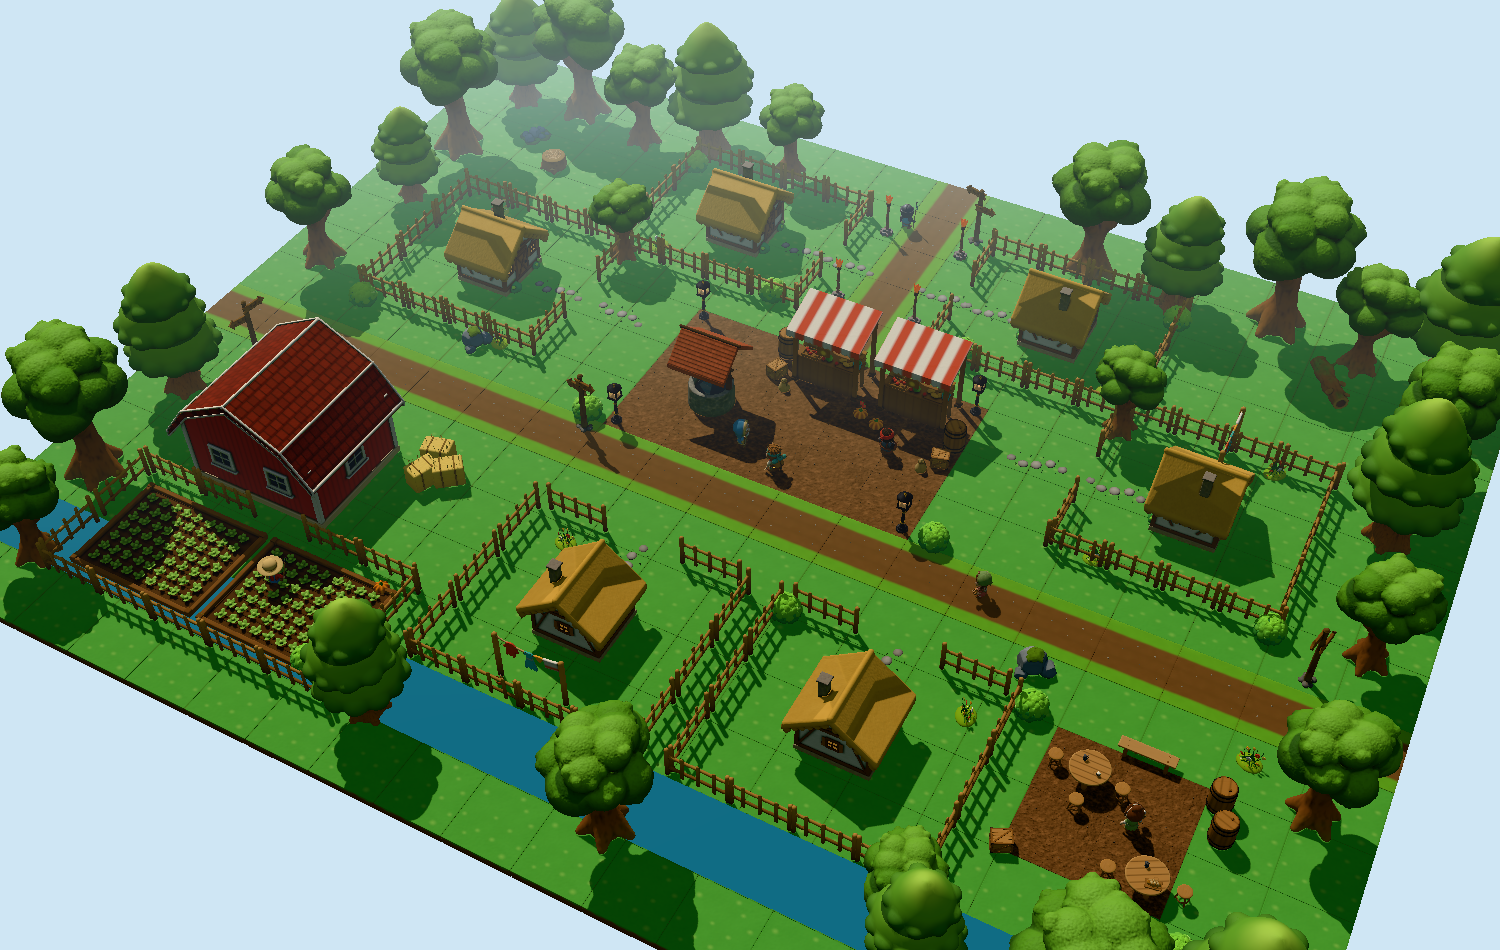
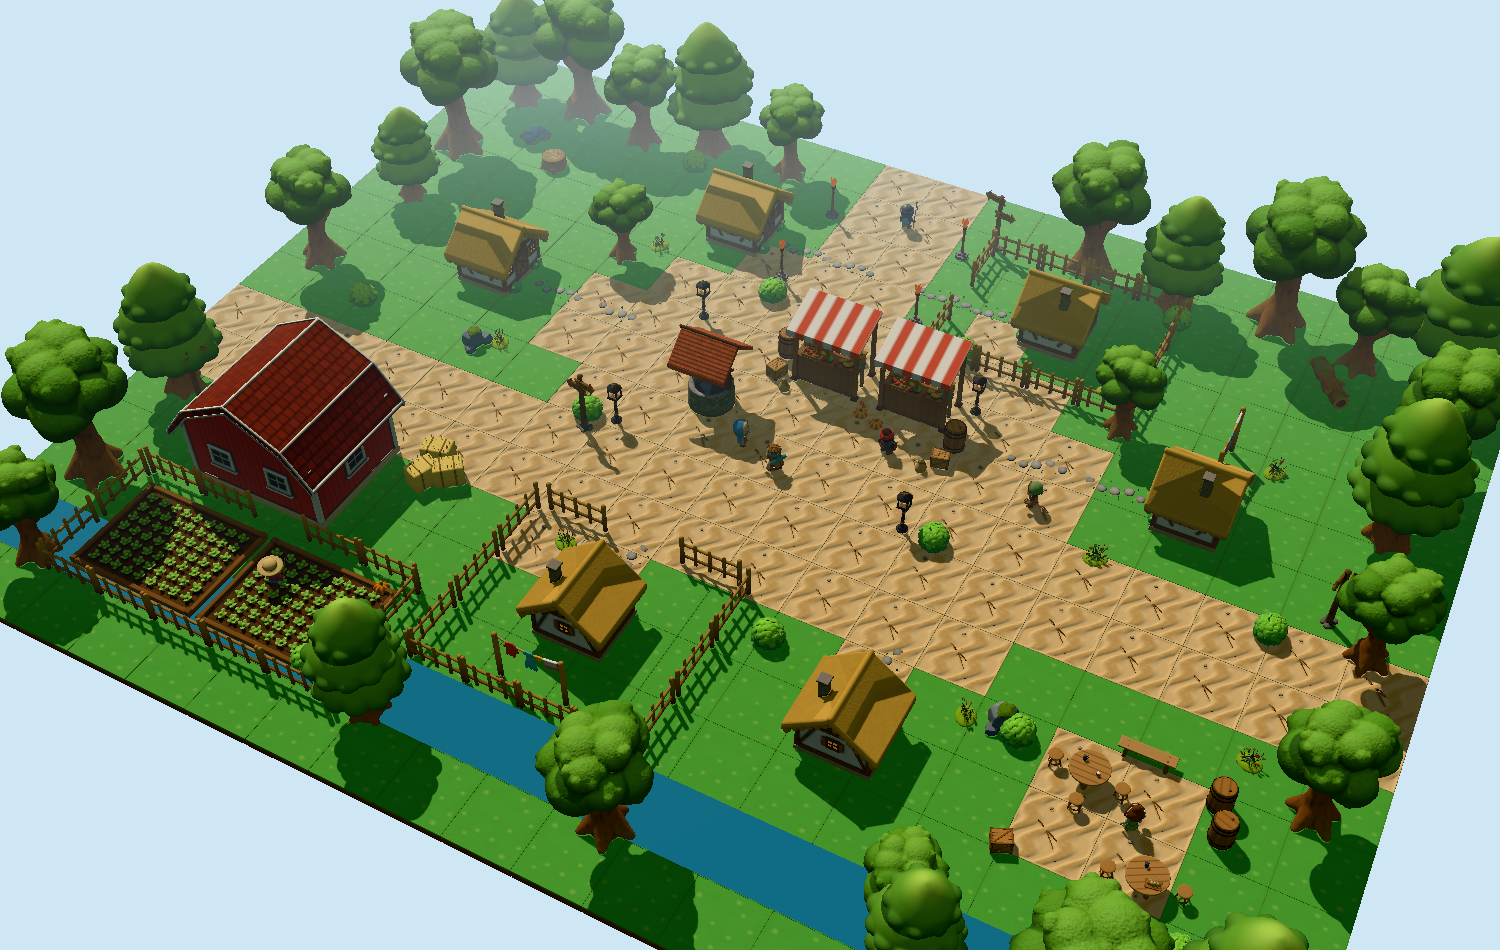
feat(maps): village map at 7.5
Warm sand covers the square, the two-tile lanes, and the door fronts,
as in the mockup; fences remain only around the farm and two yards, so
the cottages face the lanes. The component list has exact counts.
Agent: forge-sonnet-medium; orchestrator ground fix (dirt-ground read
as dark mud).

diff --git a/scenes/village.ts b/scenes/village.ts
@@ -37,9 +37,14 @@ const HOUSES: readonly House[] = [
 ];
 
 /** Market square cells (dirt), north of the road. */
-const SQUARE: readonly (readonly [number, number])[] = [-4, -2, 0, 2, 4].flatMap((x) =>
-  [-4, -2, 0].map((z) => [x, z] as const),
+const SQUARE: readonly (readonly [number, number])[] = [-6, -4, -2, 0, 2, 4, 6].flatMap((x) =>
+  [-6, -4, -2, 0].map((z) => [x, z] as const),
 );
+
+/** Dirt patches in front of cottage doors. */
+const FRONTS: readonly (readonly [number, number])[] = [
+  [-4, -8], [-2, -8], [4, -8], [-8, -4], [-8, -2], [8, -4], [8, -2], [-2, 6], [6, 4], [6, 6], [-4, 4], [-4, 6],
+];
 
 /** Inn corner cells (dirt), south-east. */
 const INN: readonly (readonly [number, number])[] = [
@@ -88,8 +93,8 @@ const BUSHES: readonly (readonly [number, number, number])[] = [
   [14.9, -0.4, 80],
   [-5.6, 0.9, 30],
   [5.7, 0.8, 110],
-  [3.2, 5.0, 0],
-  [10.2, 4.9, 40],
+  [3.2, 6.0, 0],
+  [10.2, 5.8, 40],
   [-7.0, 12.4, 15],
   [15.6, 9.8, 70],
   [-3.2, -6.6, 50],
@@ -138,12 +143,12 @@ export function villagePlaces(): Place[] {
   places.push(prop('signpost', -5.4, 1.4, 0));
 
   // North lane gate and the road ends.
-  places.push(prop('signpost', 1.5, -12.4, 180));
-  places.push(prop('signpost', -16.2, 3.4, 90));
-  places.push(prop('signpost', 16.2, 0.6, 270));
+  places.push(prop('signpost', 2.2, -12.4, 180));
+  places.push(prop('signpost', -16.2, 6.0, 90));
+  places.push(prop('signpost', 16.2, -1.6, 270));
   for (const z of [-11.4, -7.6]) {
-    places.push(prop('torch', -1.35, z, 0, 0, 1, true));
-    places.push(prop('torch', 1.35, z, 0, 0, 1, true));
+    places.push(prop('torch', -3.4, z, 0, 0, 1, true));
+    places.push(prop('torch', 1.4, z, 0, 0, 1, true));
   }
 
   // Farm: the barn faces the road; two fields behind a fence to the south.
@@ -160,7 +165,8 @@ export function villagePlaces(): Place[] {
   // Cottages with fenced yards and stepping-stone paths.
   for (const house of HOUSES) {
     places.push(prop('cottage', house.x, house.z, house.yaw));
-    places.push(...fenceRect(house.x, house.z, house.yardW, house.yardD, house.gate));
+    if (house === HOUSES[1] || house === HOUSES[4])
+      places.push(...fenceRect(house.x, house.z, house.yardW, house.yardD, house.gate));
     const [dx, dz] = offset(house.yaw, 1.45);
     const gate = gateCenter(house);
     const out = beyond(house.x, house.z, gate, 1.1);
@@ -194,7 +200,7 @@ export function villagePlaces(): Place[] {
   places.push(prop('shopkeeper', 0.2, -5.4, 0, 0, 1, true));
   places.push(prop('quest-giver', -0.9, -0.2, 110, 0, 1, true));
   places.push(prop('adventurer', 0.4, 0.3, 250));
-  places.push(prop('villager', 7.6, 1.9, 270, 0, 1, true));
+  places.push(prop('villager', 7.6, -1.9, 270, 0, 1, true));
   places.push(prop('innkeeper', 13.6, 7.0, 220, 0, 1, true));
   places.push(prop('farmer', -9.6, 10.6, 200));
   places.push(prop('guard', -0.9, -12.0, 180));
@@ -207,7 +213,7 @@ export function villagePlaces(): Place[] {
   places.push(prop('rock-cluster', 15.2, 11.2, 280));
   places.push(prop('fallen-log', 13.8, -10.8, 35));
   places.push(prop('tree-stump', -13.4, -9.4, 0));
-  places.push(prop('boulder', 9.8, 3.6, 20, 0, 0.9));
+  places.push(prop('boulder', 9.8, 5.6, 20, 0, 0.9));
   places.push(prop('boulder', -10.4, -0.2, 60, 0, 0.8));
   return places;
 }
@@ -219,10 +225,25 @@ function ground(): Place[] {
   const paint = (x: number, z: number, asset: string, yaw = 0) => {
     if (cells.has(id(x, z))) cells.set(id(x, z), { asset, yaw });
   };
-  for (const [x, z] of SQUARE) paint(x, z, 'dirt-ground');
-  for (const [x, z] of INN) paint(x, z, 'dirt-ground');
-  for (const x of XS) paint(x, ROAD_Z, 'dirt-road-straight', 90);
-  for (const z of ZS) if (z <= -6) paint(0, z, 'dirt-road-straight', 0);
+  // Warm sand for the square, the lanes, and the door fronts, as in the mockup (dirt-ground
+  // read as dark mud at this size).
+  const SAND = 'desert-ground';
+  for (const [x, z] of SQUARE) paint(x, z, SAND);
+  for (const [x, z] of INN) paint(x, z, SAND);
+  for (const [x, z] of FRONTS) paint(x, z, SAND);
+  // Wide east-west lane (two tiles) that bends north-east at x = 8.
+  for (const x of XS) {
+    if (x <= 6) {
+      paint(x, ROAD_Z, SAND);
+      paint(x, ROAD_Z + 2, SAND);
+    } else {
+      paint(x, 0, SAND);
+      paint(x, ROAD_Z, SAND);
+    }
+  }
+  paint(8, 4, SAND);
+  // Wide north lane out of the square.
+  for (const z of ZS) if (z <= -8) { paint(-2, z, SAND); paint(0, z, SAND); }
   const places: Place[] = [];
   for (const [k, cell] of cells) {
     const [x, z] = k.split(':').map(Number) as [number, number];
